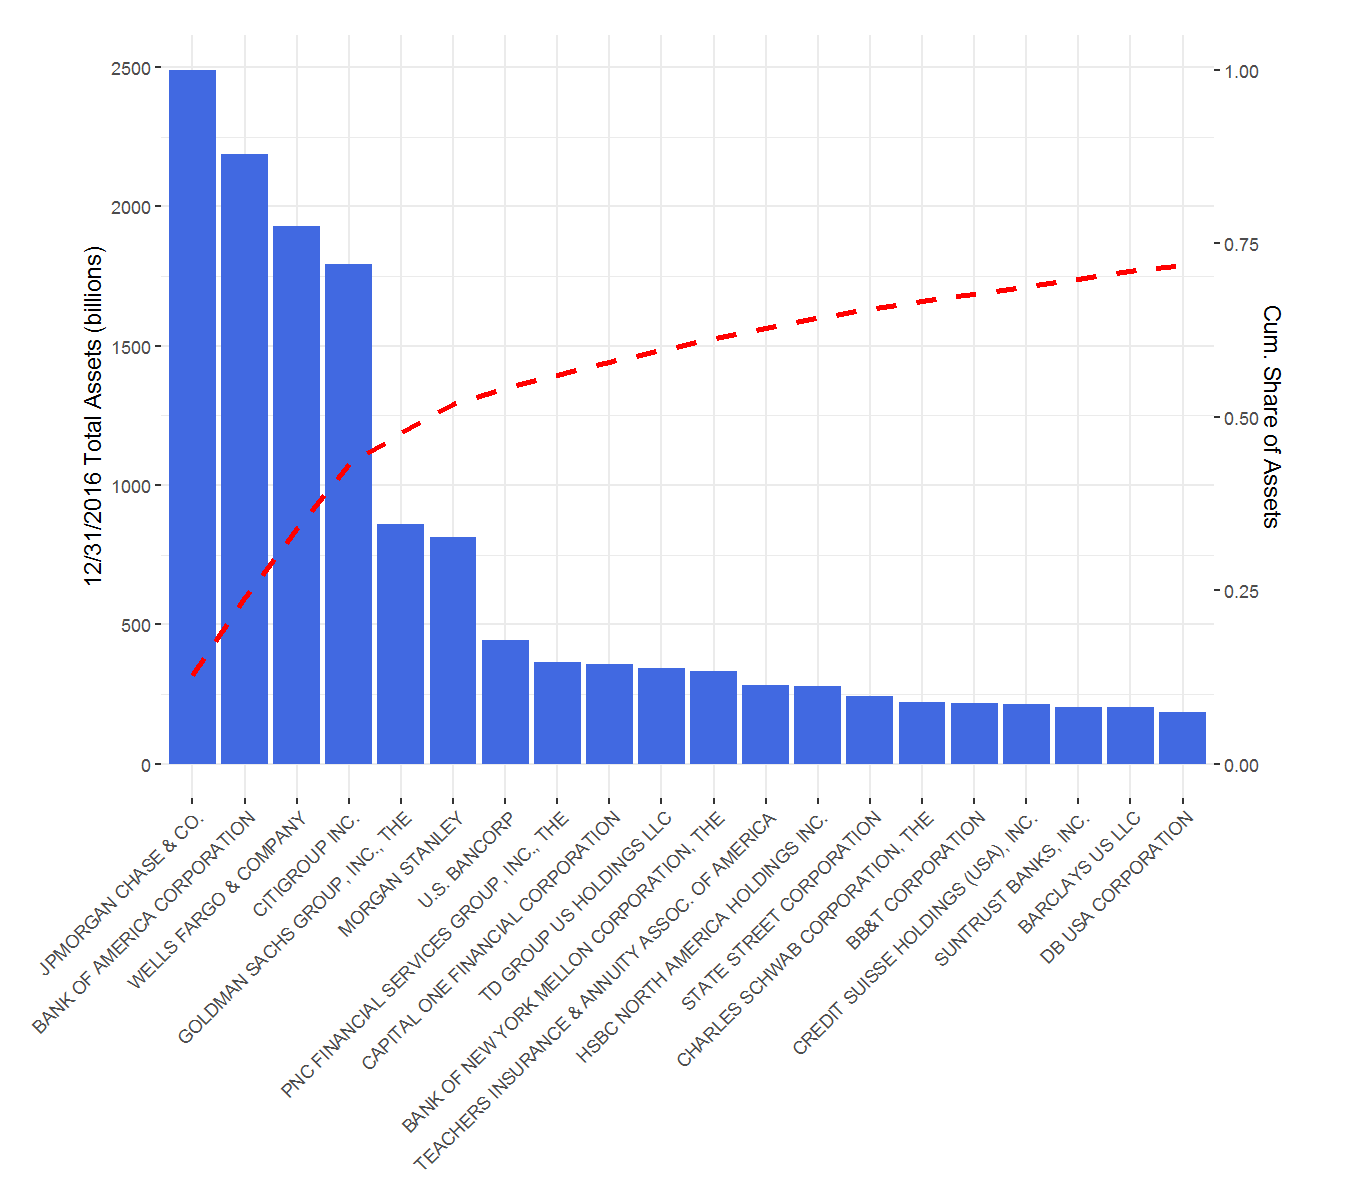
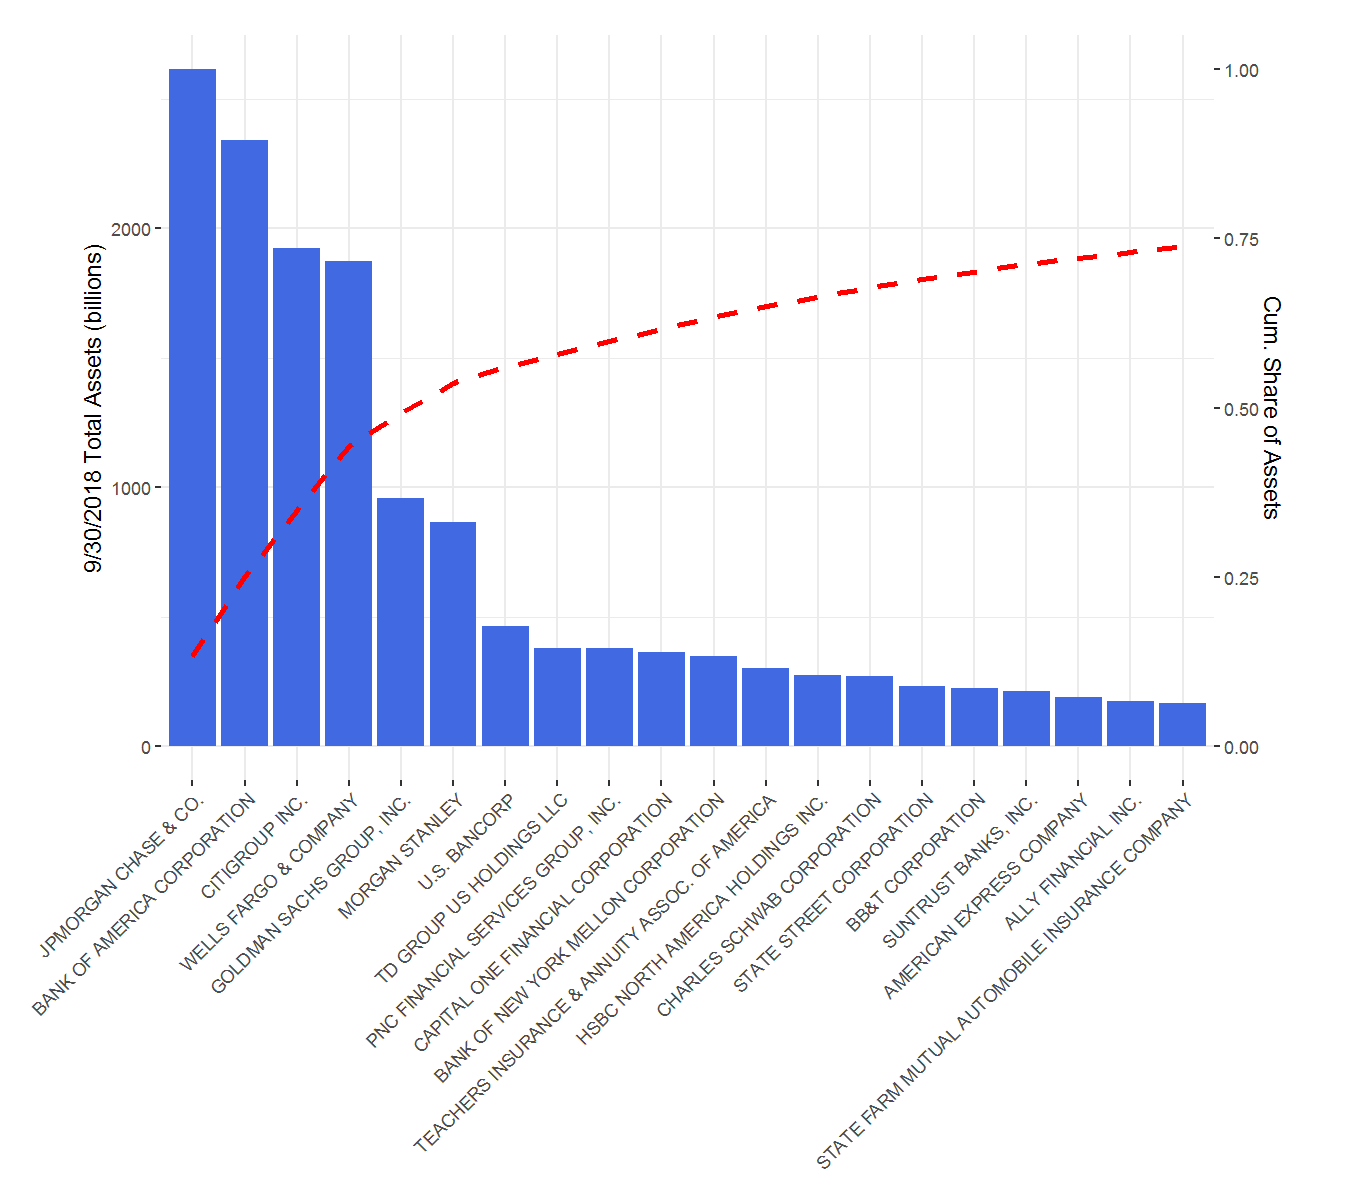
Update HC10bn list; plot functions

diff --git a/Rmarkdown/Background.md b/Rmarkdown/Background.md
@@ -26,8 +26,8 @@ for definitions of these types.
 
 <hr>
 The figure below shows the size (measured by total assets) of the 20
-largest HCs as of the end of 2016, along with their share of assets
-among the ~600 HCs with at least $1 billion in assets:
+largest HCs as of 2018 Q3, along with their share of assets among the
+~600 HCs with at least $1 billion in assets:
 
 <img src="figure/unnamed-chunk-2-1.png" width="800px" height="700px" style="display: block; margin: auto;" />
 
